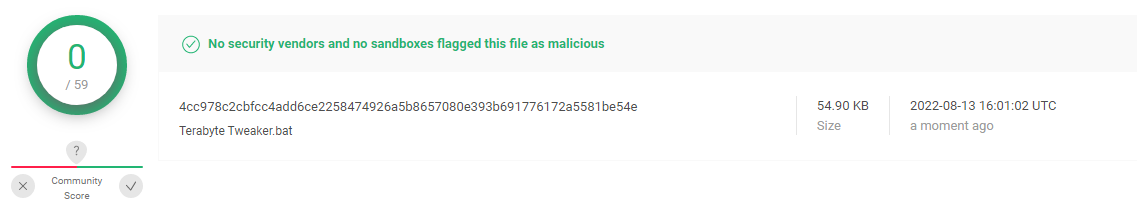
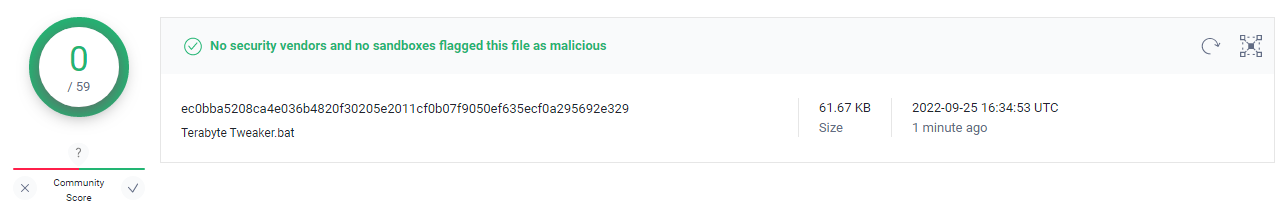
README Changes + Fixes

diff --git a/README.md b/README.md
@@ -21,13 +21,16 @@ Terabyte Tweaker
 - [About](#about)
 - [Getting Started](#getting_started)
 - [Installing](#installing)
+- [Configurating](#installing)
+- [Uninstalling](#uninstalling)
 - [Contributing](#contributing)
 
 ## ⚠ About <a name = "about"></a>
 
 Terabyte Tweaker is an program that optimizes your Windows PC, allowing it to run faster and smoother.
 
-I strongly recommend you to use this app in your desktop computer, as it will give you an extra FPS boost to your PC, at the moment, im focused in making Minecraft's FPS higher, and in the tests that i've peformed, my FPS practically tripled, it went from 60 to 180 FPS (can vary from PC to PC).
+I strongly recommend you to use this app in your low end desktop computer, as it will give you an extra FPS boost to your PC, at the moment, im focused in making Minecraft's FPS higher, and in the tests that i've peformed, my FPS practically tripled, it went from 60 to 180 FPS (can vary from PC to PC).
+Most tweaks may not be reccomended in high end computers but feel free to try, if you desire to remove the app afterwards then refer to [Uninstalling](#uninstalling).
 
 ## Getting Started <a name = "getting_started"></a>
 ### 🛑 Prerequisites
@@ -53,19 +56,32 @@ Even though all my regedit tweaks are harmless, i do not want any chance of dama
 - Automatic Installation
 - Incredibily Small File Size
 
+
 ![](https://github.com/Teramanbr/TerabyteTweaker/blob/main/images/ingles.png?raw=true)
 
-## 🔨 Installing <a name = "installing"></a>
+## ⚙ Installing <a name = "installing"></a>
 
 Running downloaded Batch files triggers a [Microsoft SmartScreen](https://docs.microsoft.com/pt-br/windows/security/threat-protection/microsoft-defender-smartscreen/microsoft-defender-smartscreen-overview) prompt, even if the Batch file is not a security threat.
-Also, [here](https://www.virustotal.com/gui/file/4cc978c2cbfcc4add6ce2258474926a5b8657080e393b691776172a5581be54e?nocache=1) is the VirusTotal report:
+Also, [here](https://www.virustotal.com/gui/file/ec0bba5208ca4e036b4820f30205e2011cf0b07f9050ef635ecf0a295692e329?nocache=1) is the VirusTotal report:
 ![](https://github.com/Teramanbr/TerabyteTweaker/blob/main/images/VirusTotal.png?raw=true)
+I would reccomend turning off your antivirus before running the program.
 
 - [Download](https://github.com/Teramanbr/TerabyteTweaker/releases/latest/download/Terabyte.Tweaker.bat) the application.
-- Run it as Administrator.
-- Type: Y or Yes and press enter to install the application.
+- Run the app as Administrator.
+- Press Y and enter to install the application with default settings (Recommended).
 
-## 🗑 Uninstallation
+## 🔨 Configurating <a name = "Configurating"></a>
+
+Terabyte Tweaker includes an configuration option, which makes it possible for you to Disable/Enable certain tweaks if you don't wish to install them
+Here is how to Disable/Enable any of the settings:
+
+- Run the app as Administrator.
+- Press C and enter to see the Settings Menu.
+- Select a number to disable/enable the corresponding setting
+![](https://github.com/Teramanbr/TerabyteTweaker/blob/main/images/Settings.png?raw=true)
+- Press X to go back to main menu and Y to run the program using only the selected settings.
+
+## 🗑 Uninstalling <a name = "uninstalling"></a>
 
 - Terabyte Tweaker will automatically create a restore point so you can restore your system to its original state, if desired.
 
